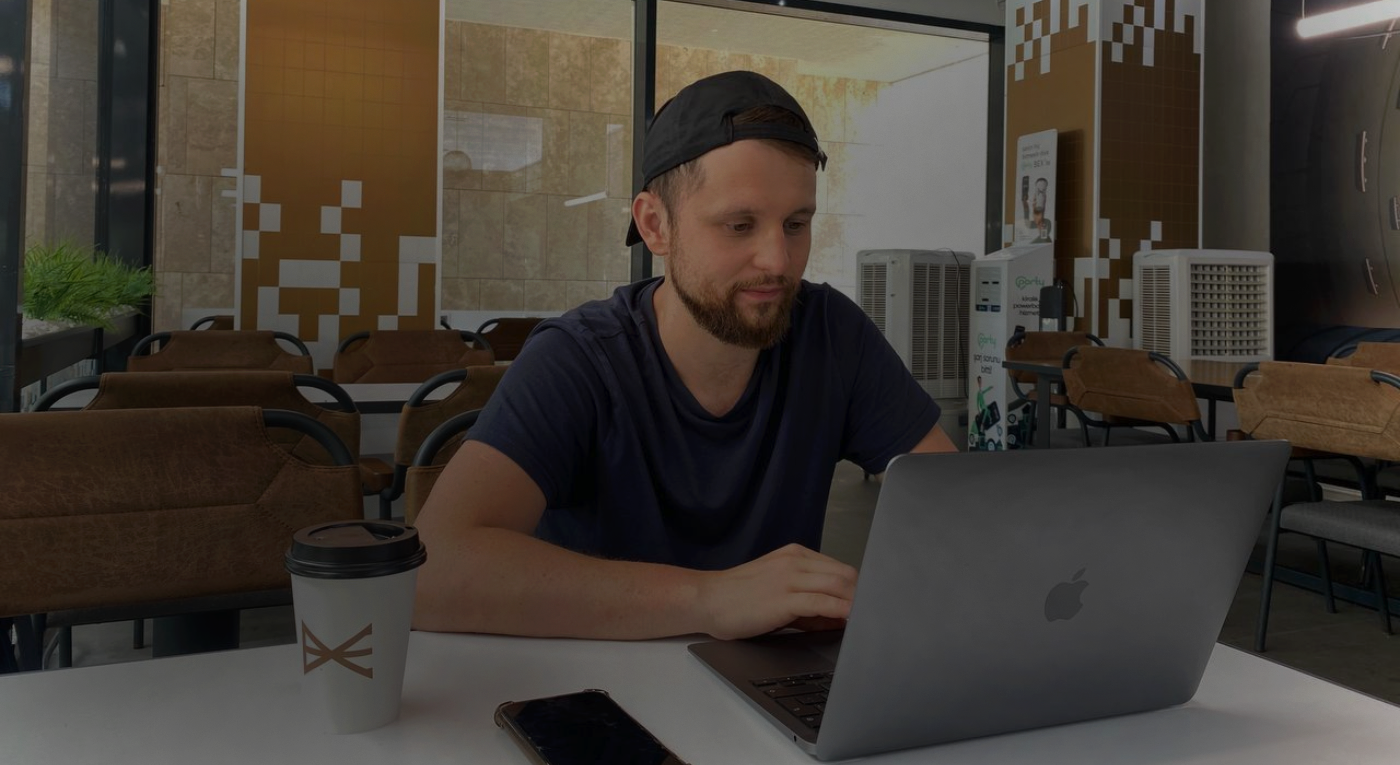
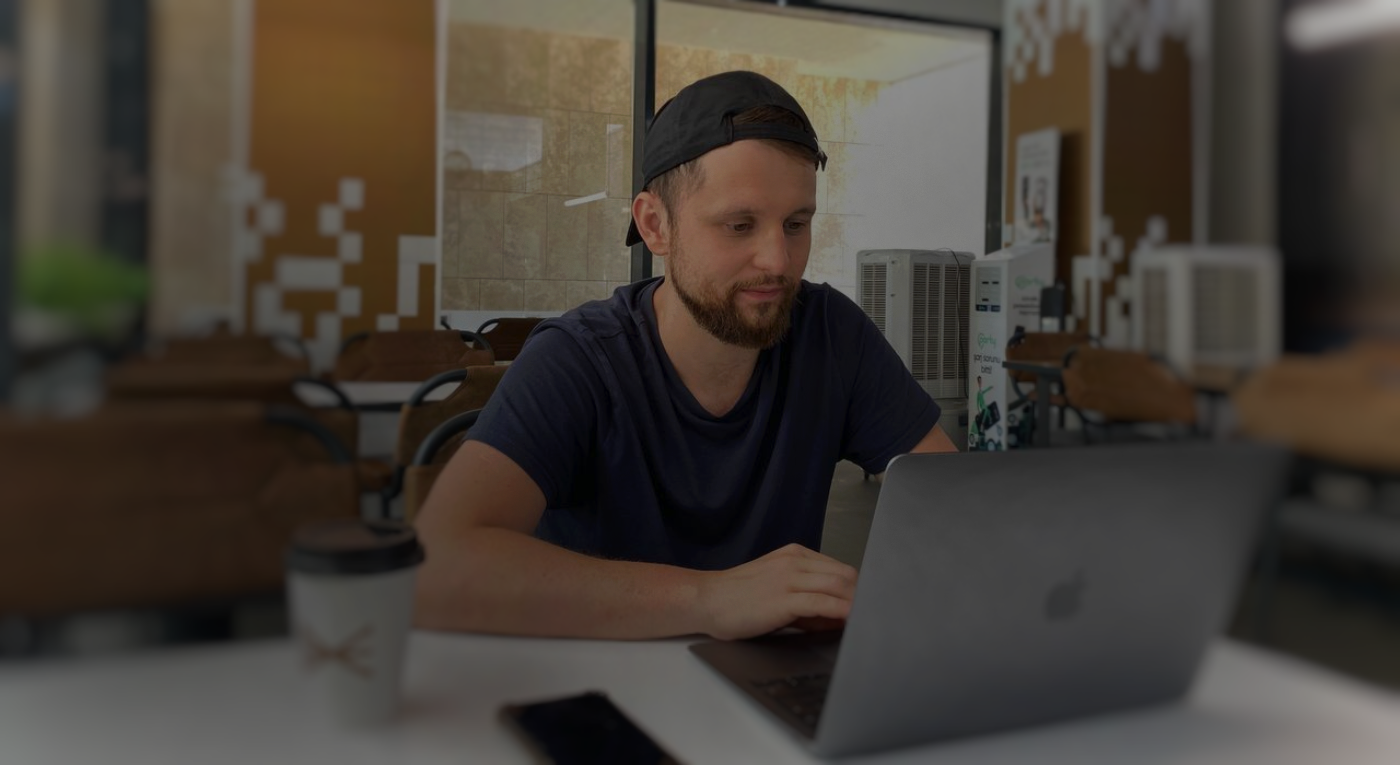
refactoring code

diff --git a/index.html b/index.html
@@ -76,8 +76,11 @@
             <a href="https://evgenyfakhrutdinov.github.io/metrika-site/" target="_blank">
                 <picture>
                     <source
+                    media="(max-width: 767px)"
+                    srcset="resources/project-metrika_mobile.png">
+                    <source
                     media="(max-width: 1199px)"
-                    src="resources/poject-metrika_tablet.png">
+                    srcset="resources/poject-metrika_tablet.png">
                     <img class="project__image" src="resources/project-metrika.png" alt="Проект сайта Metrika">
                 </picture>
                 <p class="project__text">дизайн интерьера</p>
@@ -89,8 +92,11 @@
         <a href="https://evgenyfakhrutdinov.github.io/portfolio-site/" target="_blank">
             <picture>
                 <source
+                media="(max-width: 767px)"
+                srcset="resources/project-nothing_mobile.png">
+                <source
                 media="(max-width: 1199px)"
-                src="resources/project-nothing_tablet.png">
+                srcset="resources/project-nothing_tablet.png">
                 <img class="project__image" src="resources/project-nothing.png" alt="Проект сайта Nothing">
             </picture>
             <p class="project__text">презентация продукта</p>
@@ -102,8 +108,11 @@
             <a href="https://evgenyfakhrutdinov.github.io/portfolio-site/" target="_blank">
                 <picture>
                     <source
+                    media="(max-width: 767px)"
+                    srcset="resources/project-toptrip_mobile.png">
+                    <source
                     media="(max-width: 1199px)"
-                    src="resources/project-toptrip_tablet.png">
+                    srcset="resources/project-toptrip_tablet.png">
                     <img class="project__image" src="resources/project-toptrip.png" alt="Проект сайта TOPTRIP">
                 </picture>
                 <p class="project__text">заказ путешествий</p>

diff --git a/styles/about-me.css b/styles/about-me.css
@@ -1,7 +1,7 @@
 .about-me {
   width: 100%;
   height: 765px;
-  background-image: url(../resources/portfolio-bg1.png);
+  background-image: url(../resources/portfolio-bg.png);
   background-position: 50%;
   background-repeat: no-repeat;
   background-size: cover;
@@ -36,7 +36,7 @@
     @media (max-width: 767px) {
       .about-me {
         height: 716px;
-        background-image: url(../resources/portfolio-bg1.png);
+        background-image: url(../resources/portfolio-bg_mobile.png);
         object-fit: contain;
       }
 
